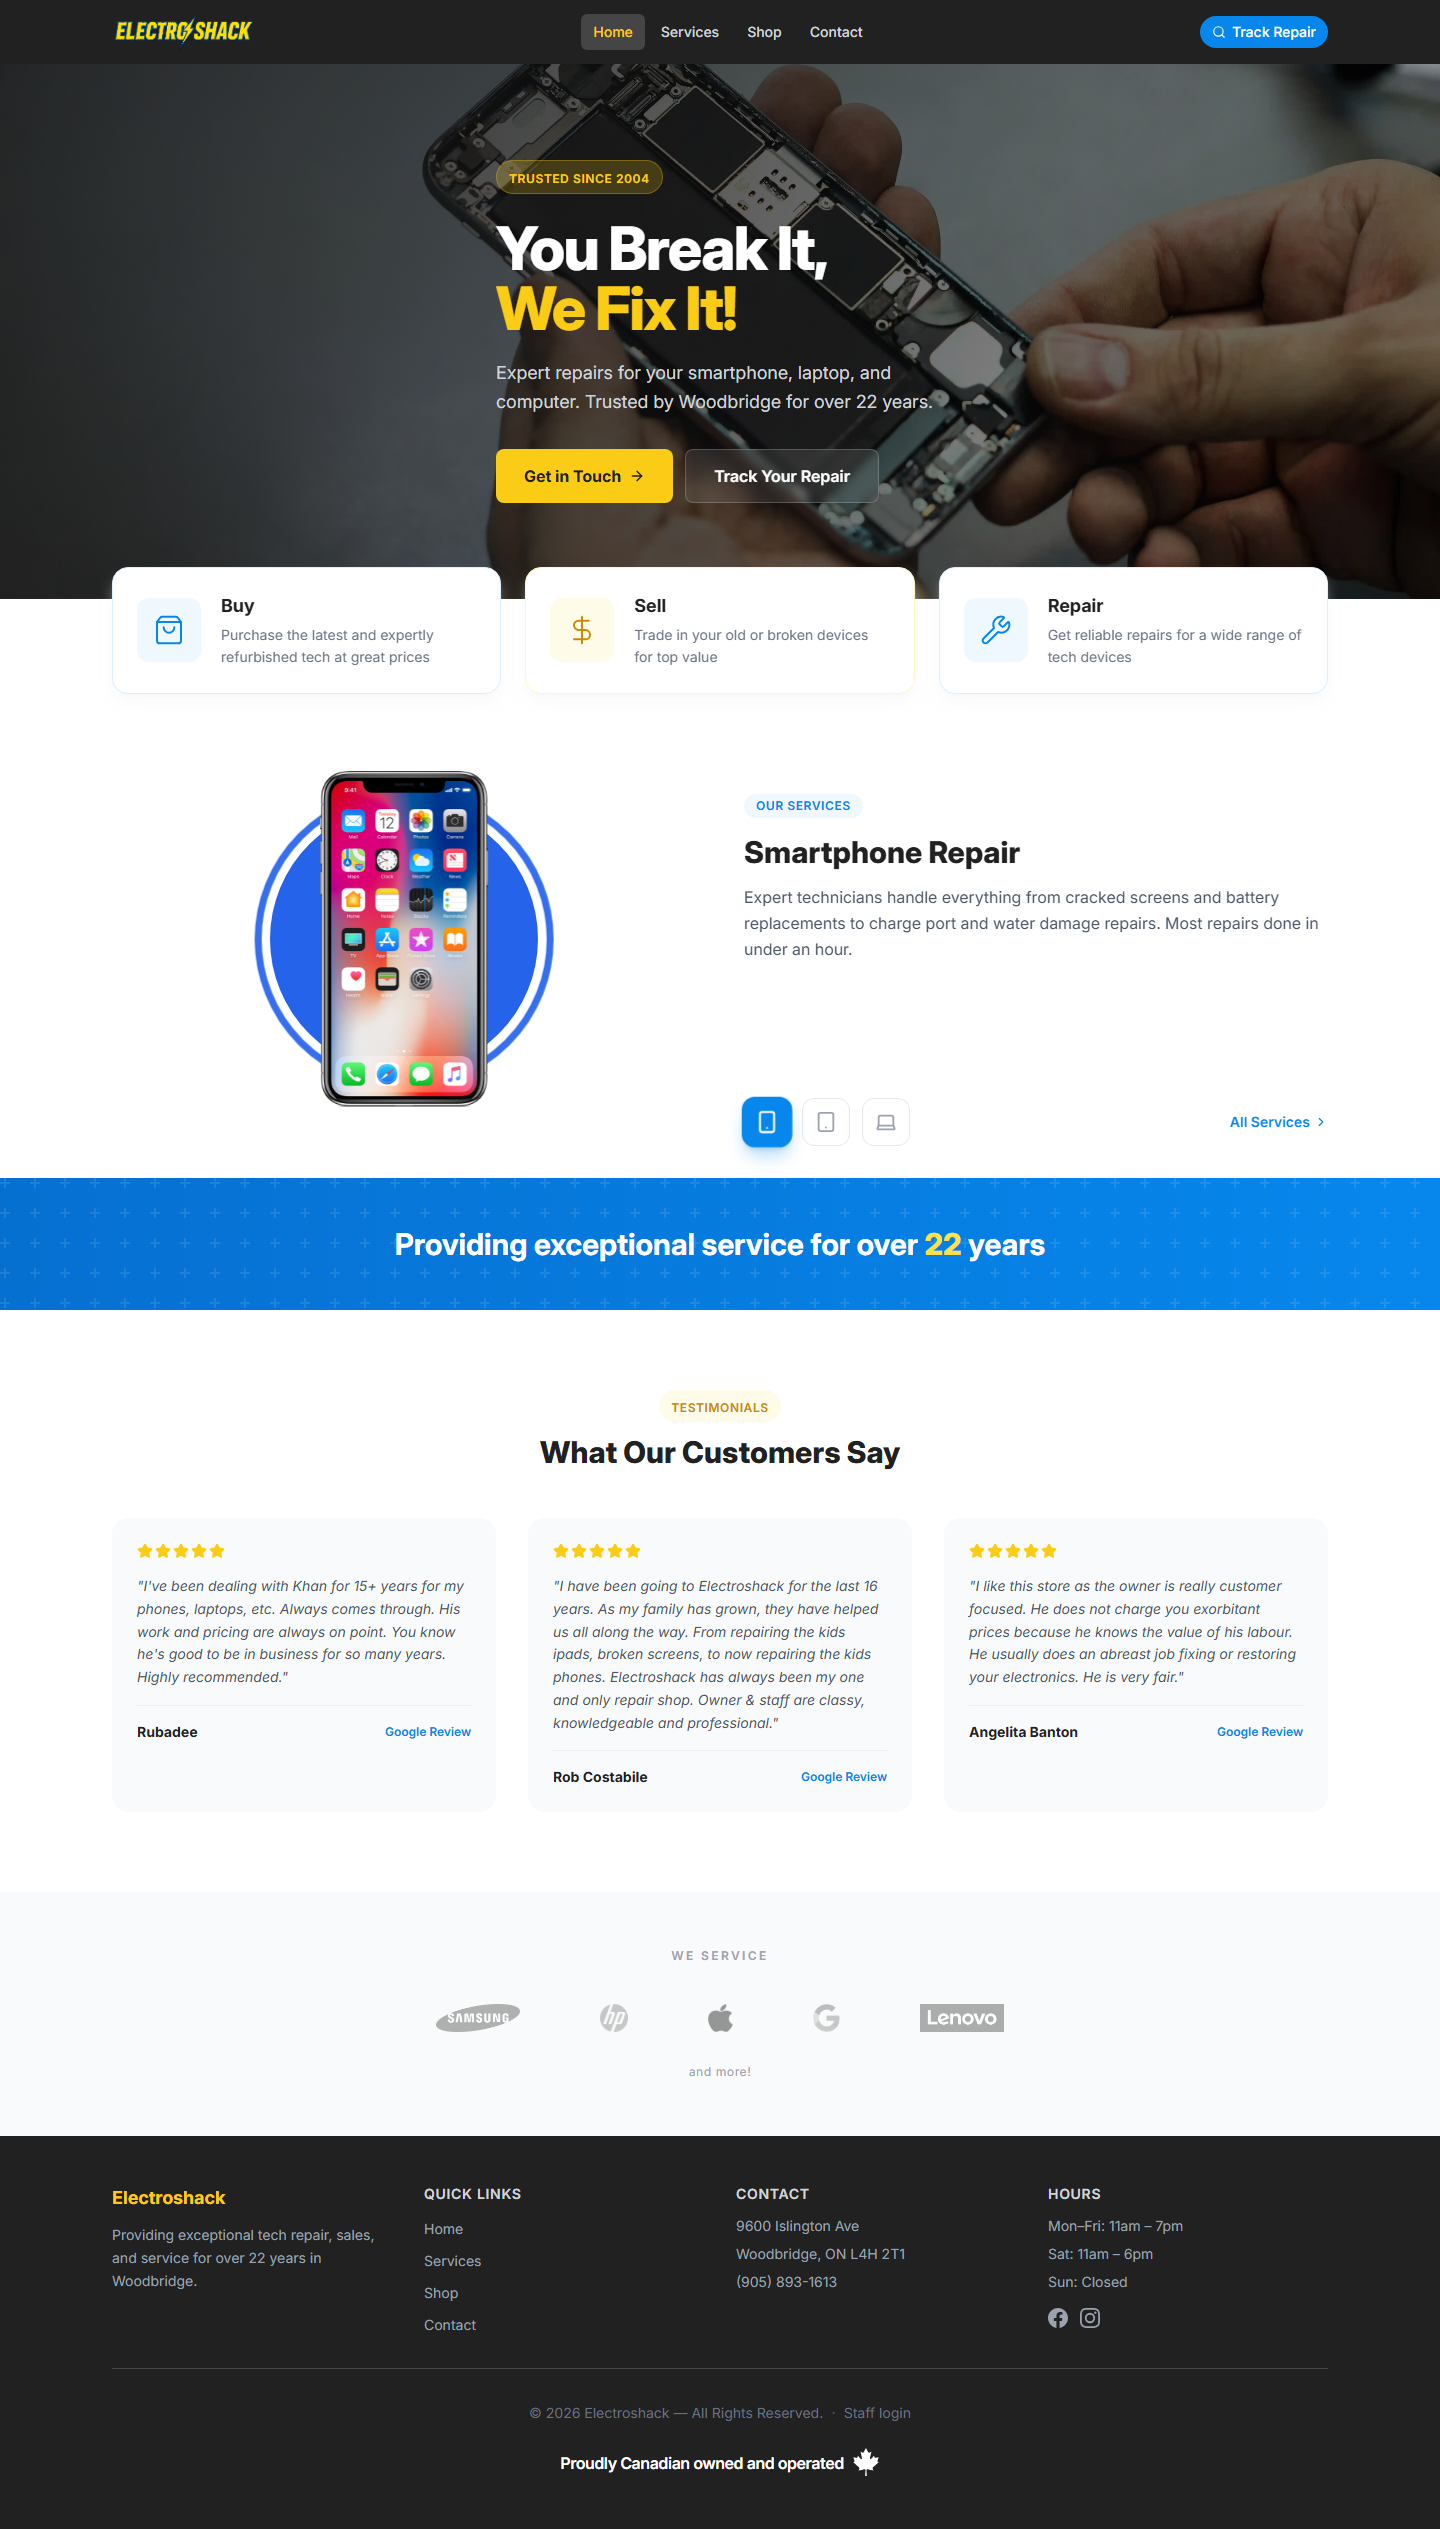
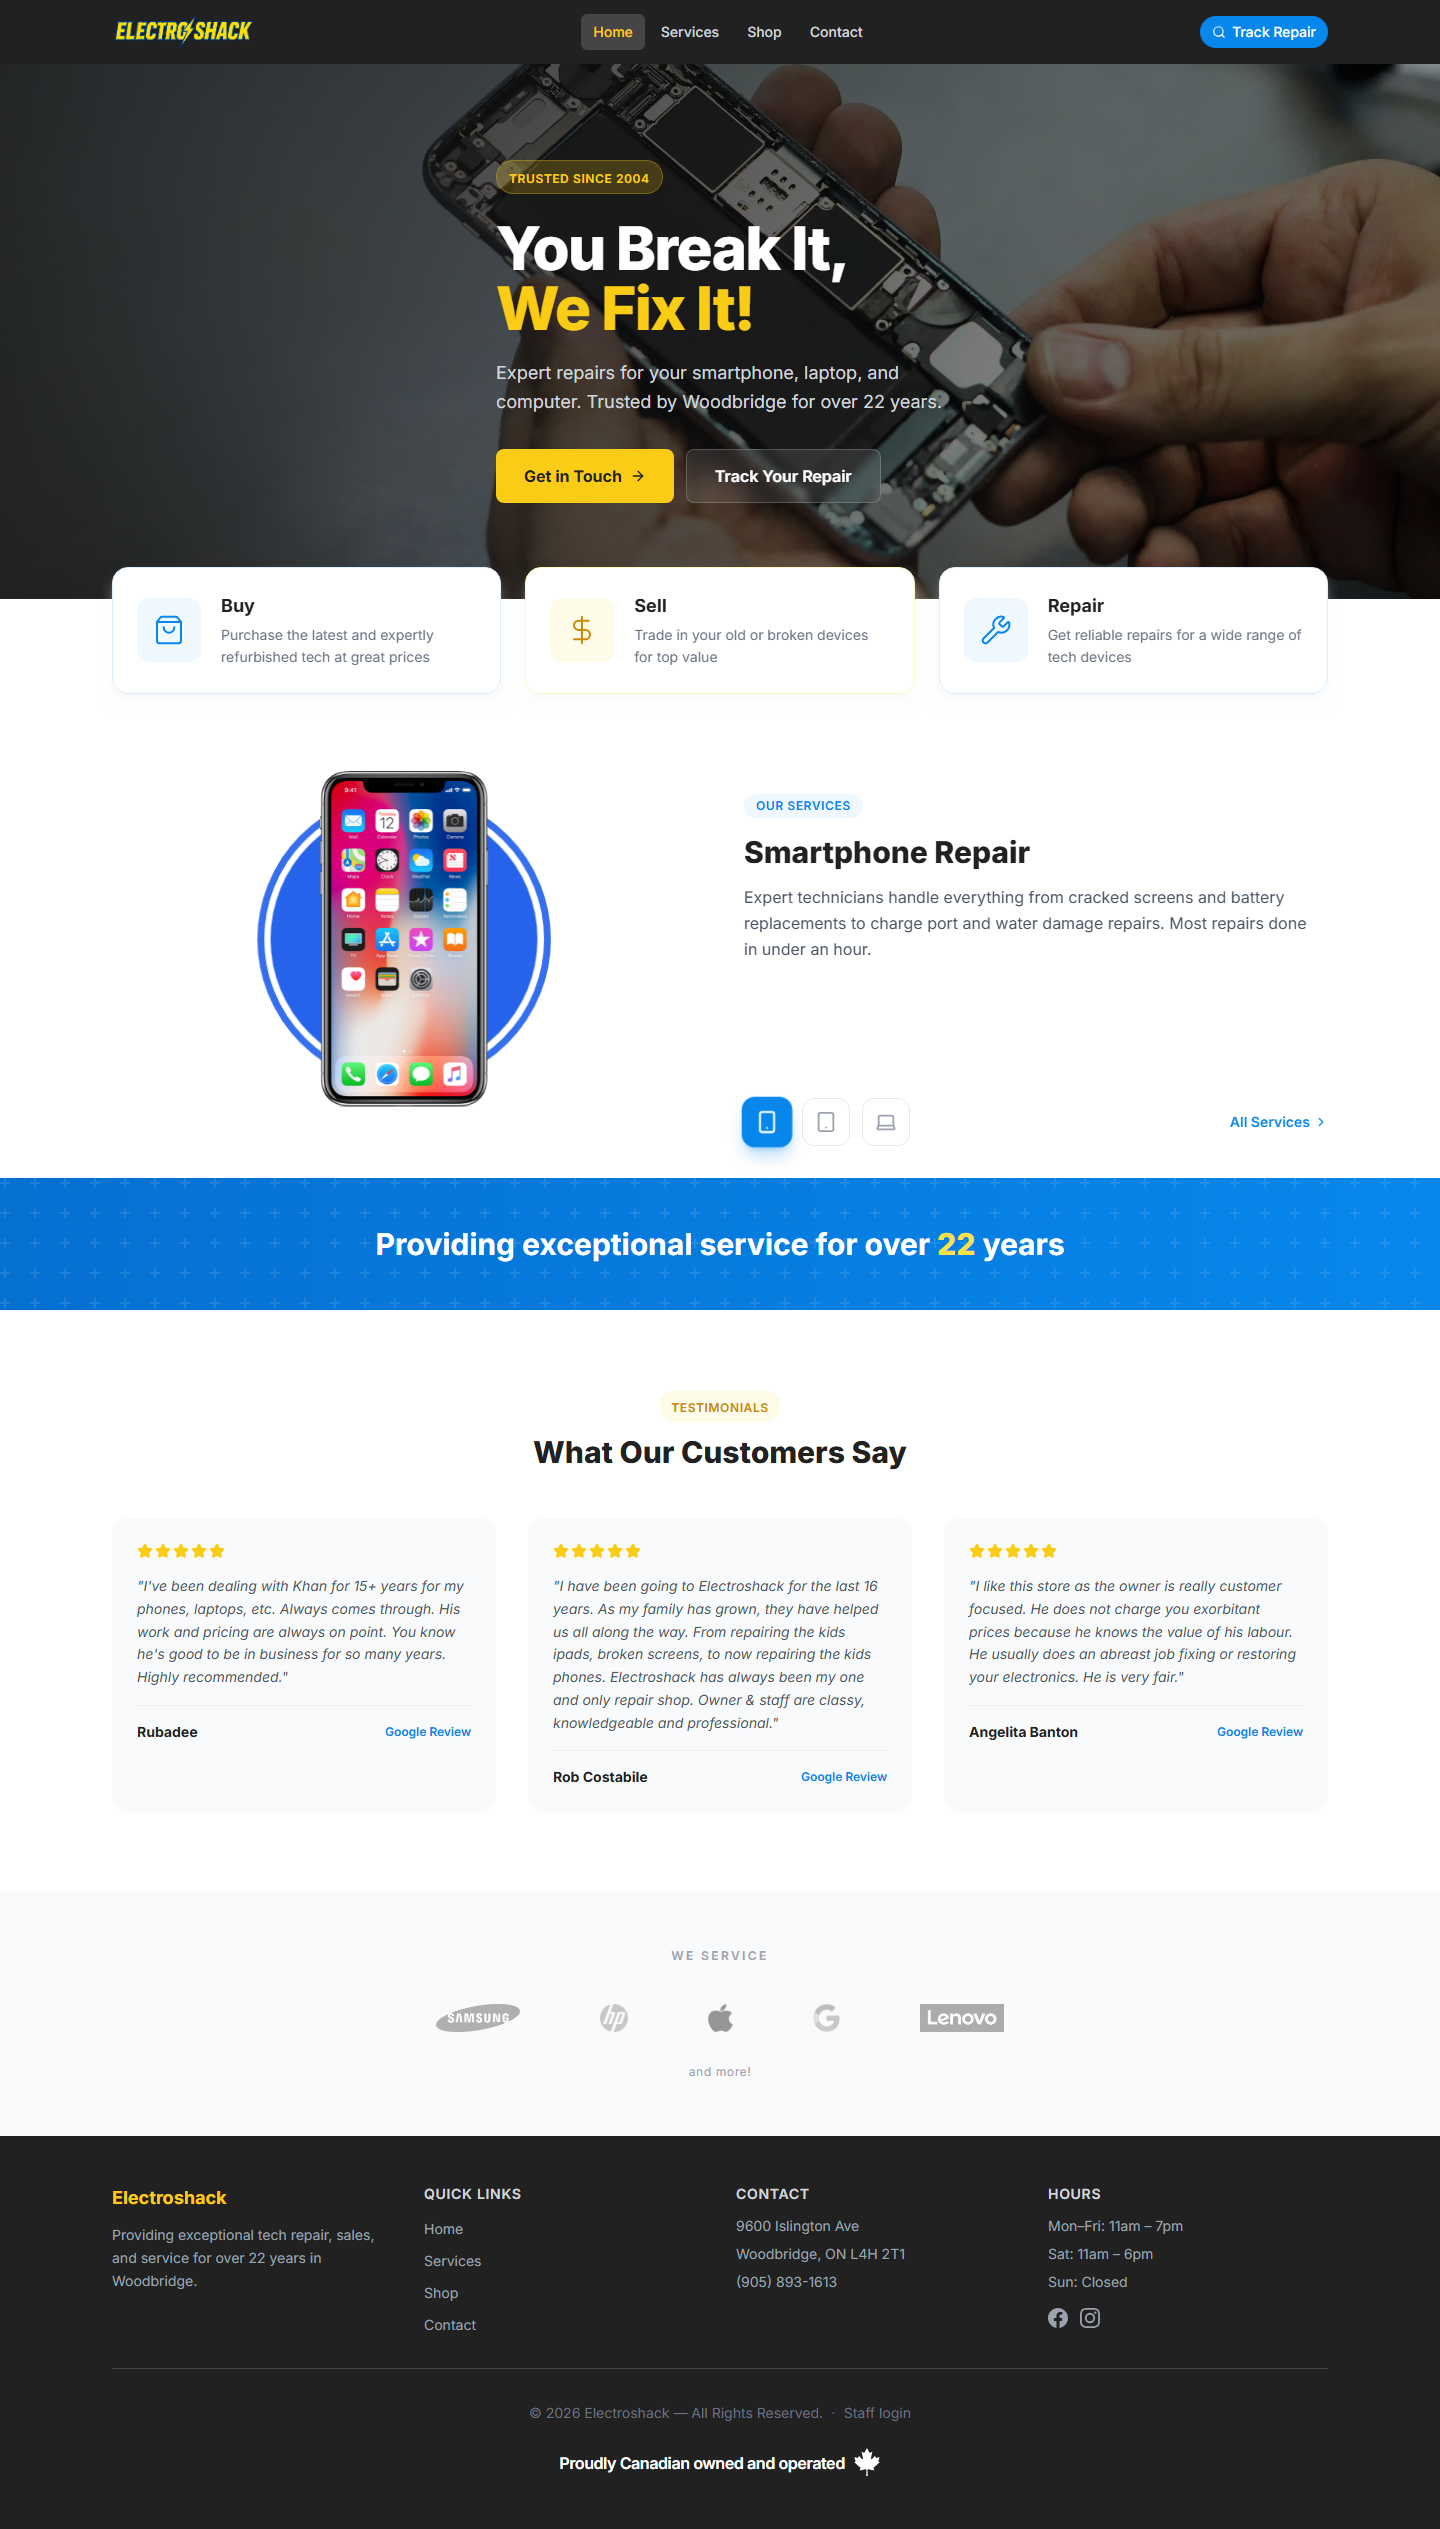
docs: live deployment URLs + production screenshots
- README: link to live https://electroshack.ca and https://api.electroshack.ca
- screenshots: refresh from the live Vercel deployment (correct logo + branded <title>)

diff --git a/README.md b/README.md
@@ -2,6 +2,20 @@
 
 A modern web-based storefront and point-of-sale (POS) system for Electroshack, replacing the handwritten receipt system with a digital workflow.
 
+## Live deployment
+
+| Surface | URL |
+| --- | --- |
+| Storefront (production) | https://electroshack.ca |
+| Storefront (Vercel CDN alias) | https://electroshack-web.vercel.app |
+| Backend API (production) | https://api.electroshack.ca |
+| Backend API (Render alias) | https://electroshack-api.onrender.com |
+
+- Frontend: **Vercel** (team `electroshacks-projects`, project `electroshack-web`).
+- Backend: **Render** Web Service (team `My Workspace`, service `electroshack-api`, free plan, oregon region) hooked to `main`.
+- Database: **MongoDB Atlas** cluster `electroshack-cluster`, database `electroshackDB`.
+- DNS: **GoDaddy** for `electroshack.ca` (apex `A` to Vercel, `www` CNAME to Vercel, `api` CNAME to Render; all Microsoft 365 mail records preserved).
+
 ## Screenshots
 
 Public storefront, admin dashboard, customer ticket lookup and the digital invoice form (full set under [`docs/screenshots/`](docs/screenshots/)).
